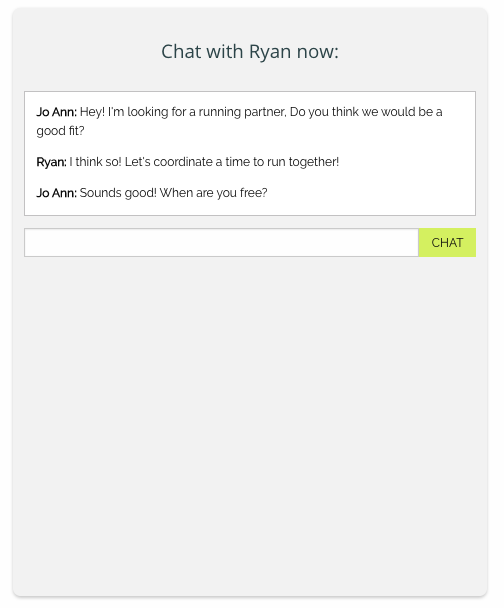
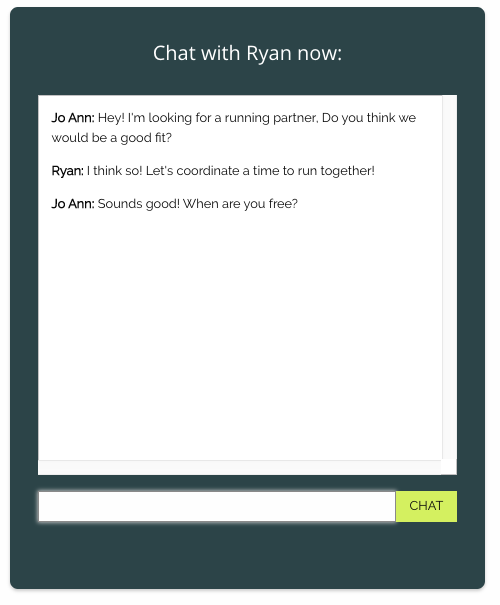
updated README and how it works with updated image

diff --git a/README.md b/README.md
@@ -70,17 +70,17 @@ When you find someone who might be a match, click "SEND MATCH REQUEST".
 That person can then choose to accept or deny the match request.
 
 
-If they accept, you will both be able to see to a chatroom where you can get to know each other and coordinate further details.
+If they accept, you will be able to view a chatroom where you can get to know each other and coordinate further details.
 
 
-![example chat](public/images/examplechat.png)
+![example chat](public/images/exampleChat.png)
 
 
 Meet for a run with your new running partner!
 
 ## In Progress/Current Bugs
 
-* The chat feature does not persist messages yet. There seems to be an error with the way I'm adding the messages to the current state of messages.
-* The search bar currently displays search results on top of the current athletes available. I plan to remove the duplicate data and display only all athletes or the search results, not both.
-* I do not currently have a way to send match requests but will be establishing self referential associations between the users table and friendships along with some logic that will hide the chat until a user accepts a match request from another user.
+* I do not currently have a way to accept or deny match requests yet but plan to implement a component that will have accept or deny buttons and a component that will show pending depending on which user sent the request.
+* Once you send a request, you need to refresh the page to see the chatroom. I plan to implement componentDidUpdate in order to render this without the refresh.
+* If you go to your profile, you will need to send a match request to yourself to see your chats. I plan to adjust the logic to reset the state if the current user matches the user show page.
 * Photos that are uploaded by users directly to Strava are displayed at a much lower resolution than photos users that have their Strava accounts linked to their Facebook or Google accounts. I plan to implement CarrierWave with AWS cloud storage in the future to allow users to upload their own photos.
